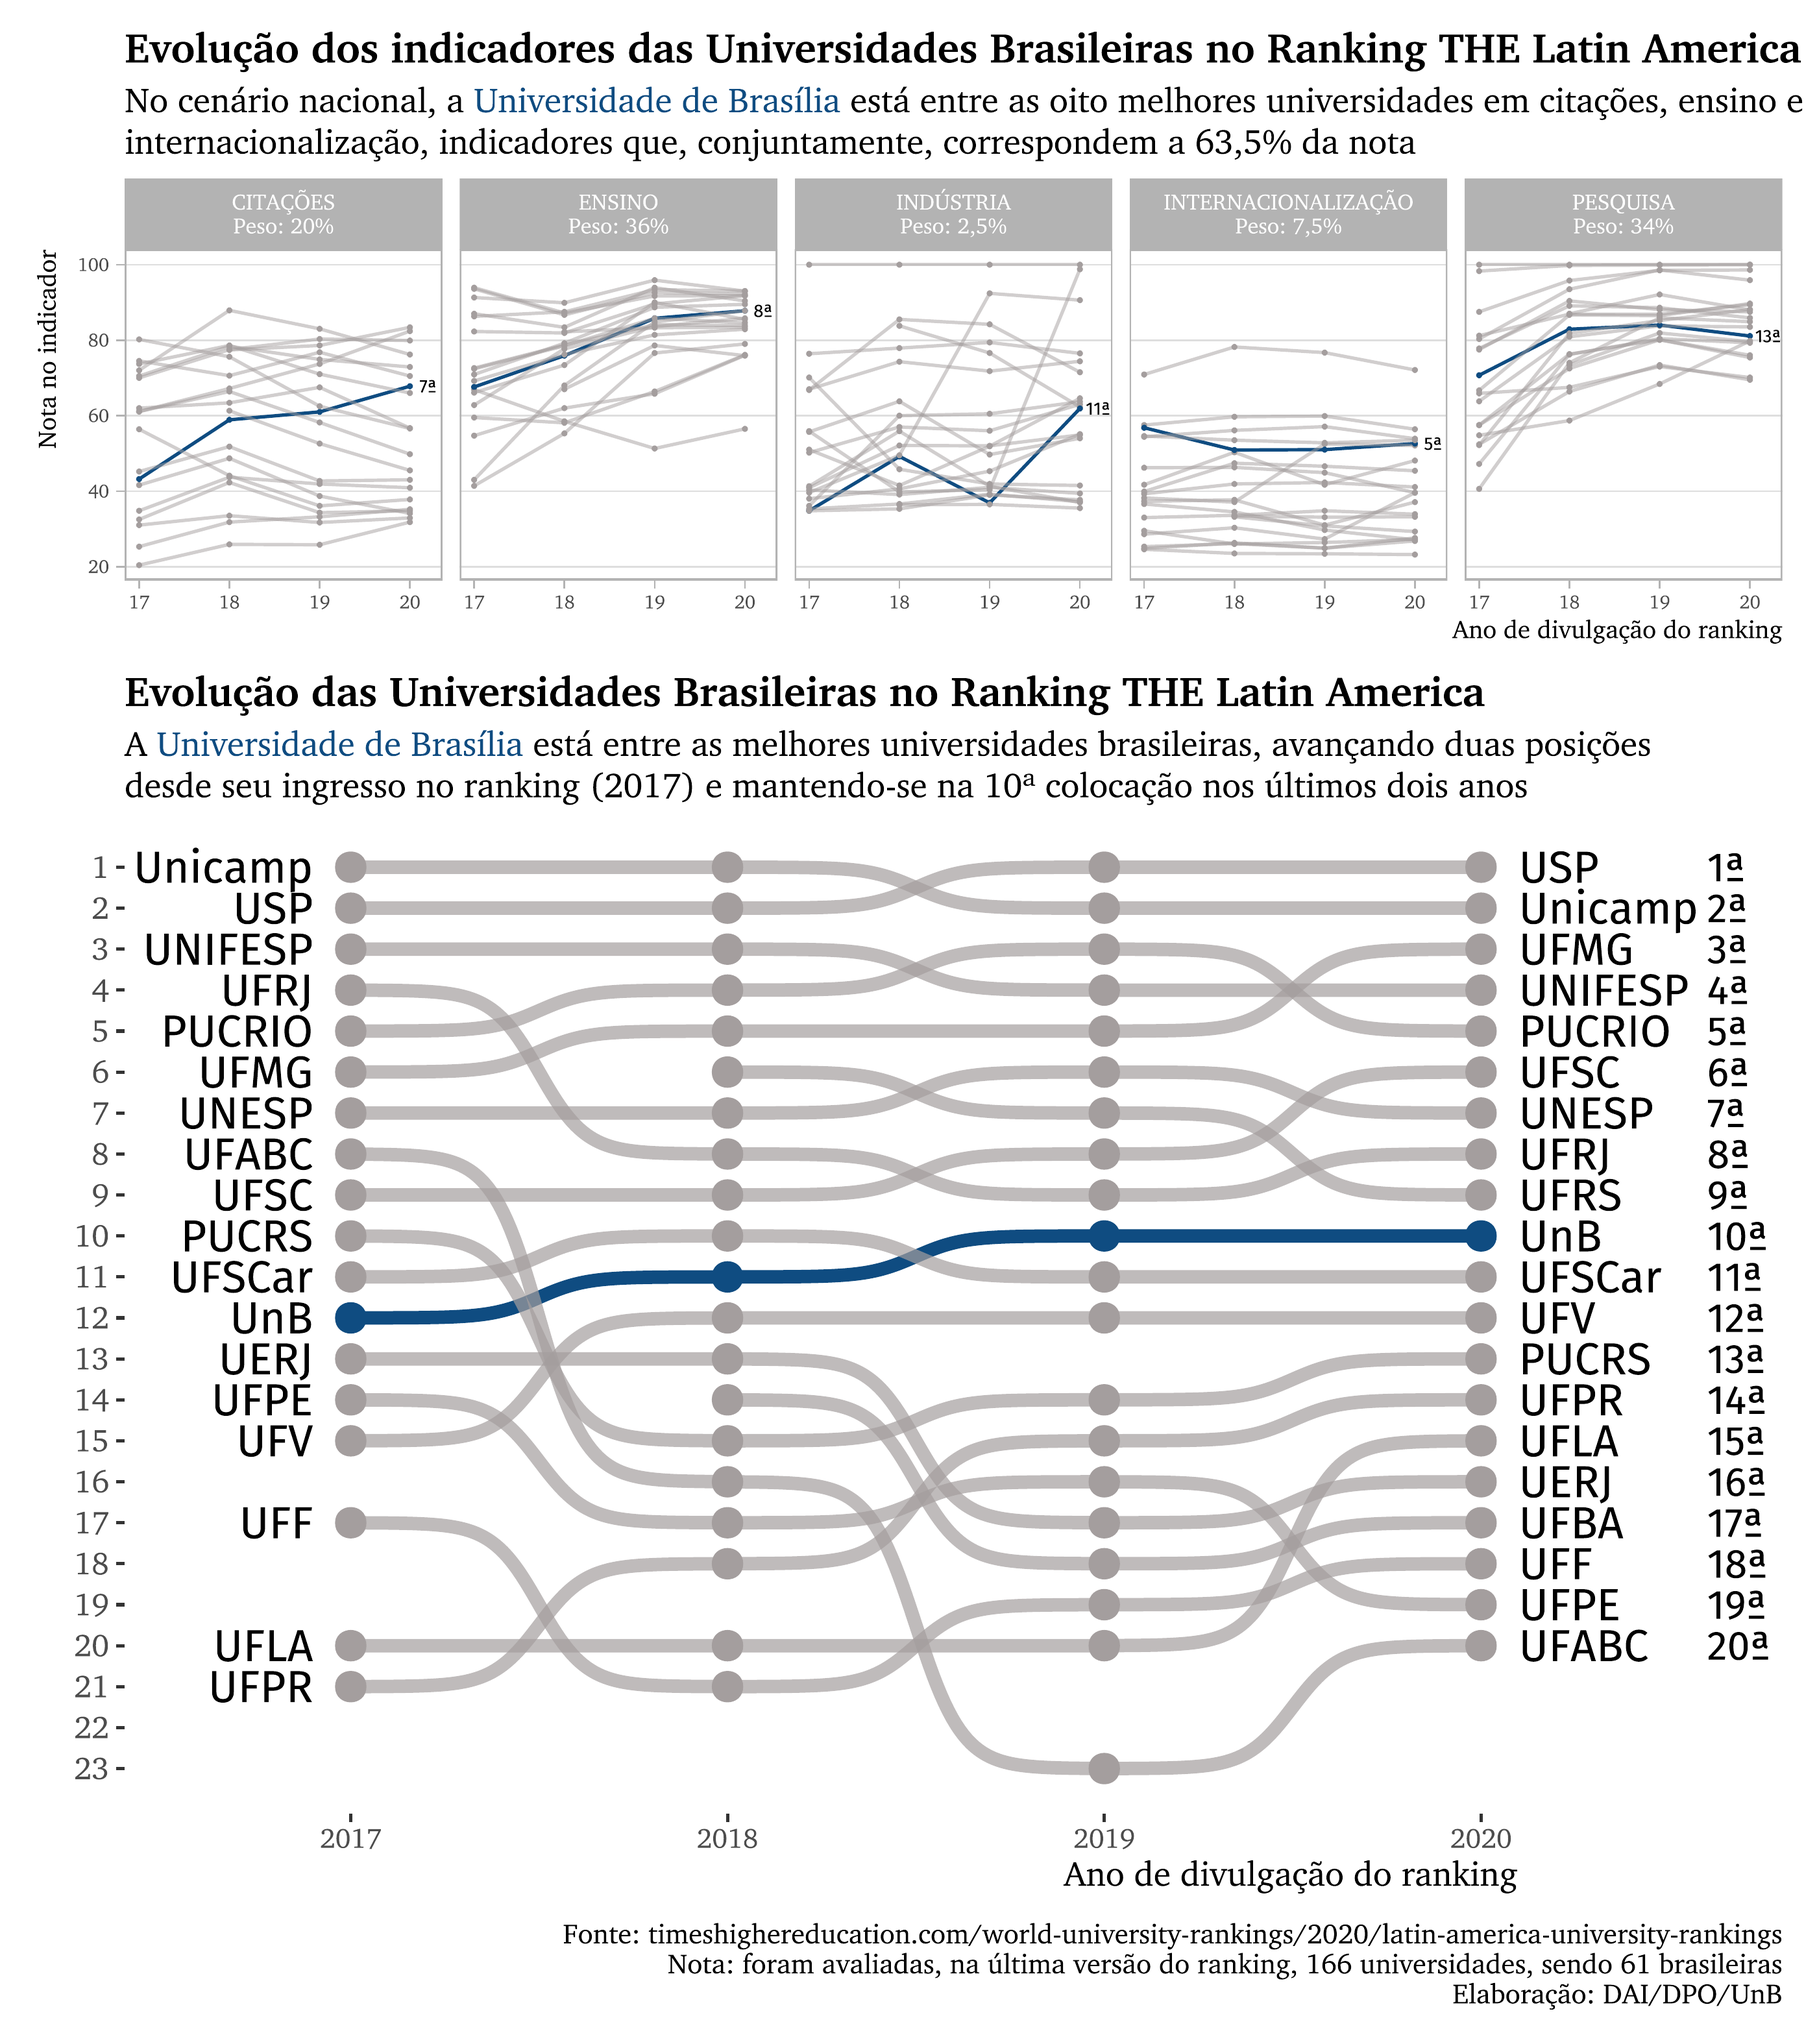
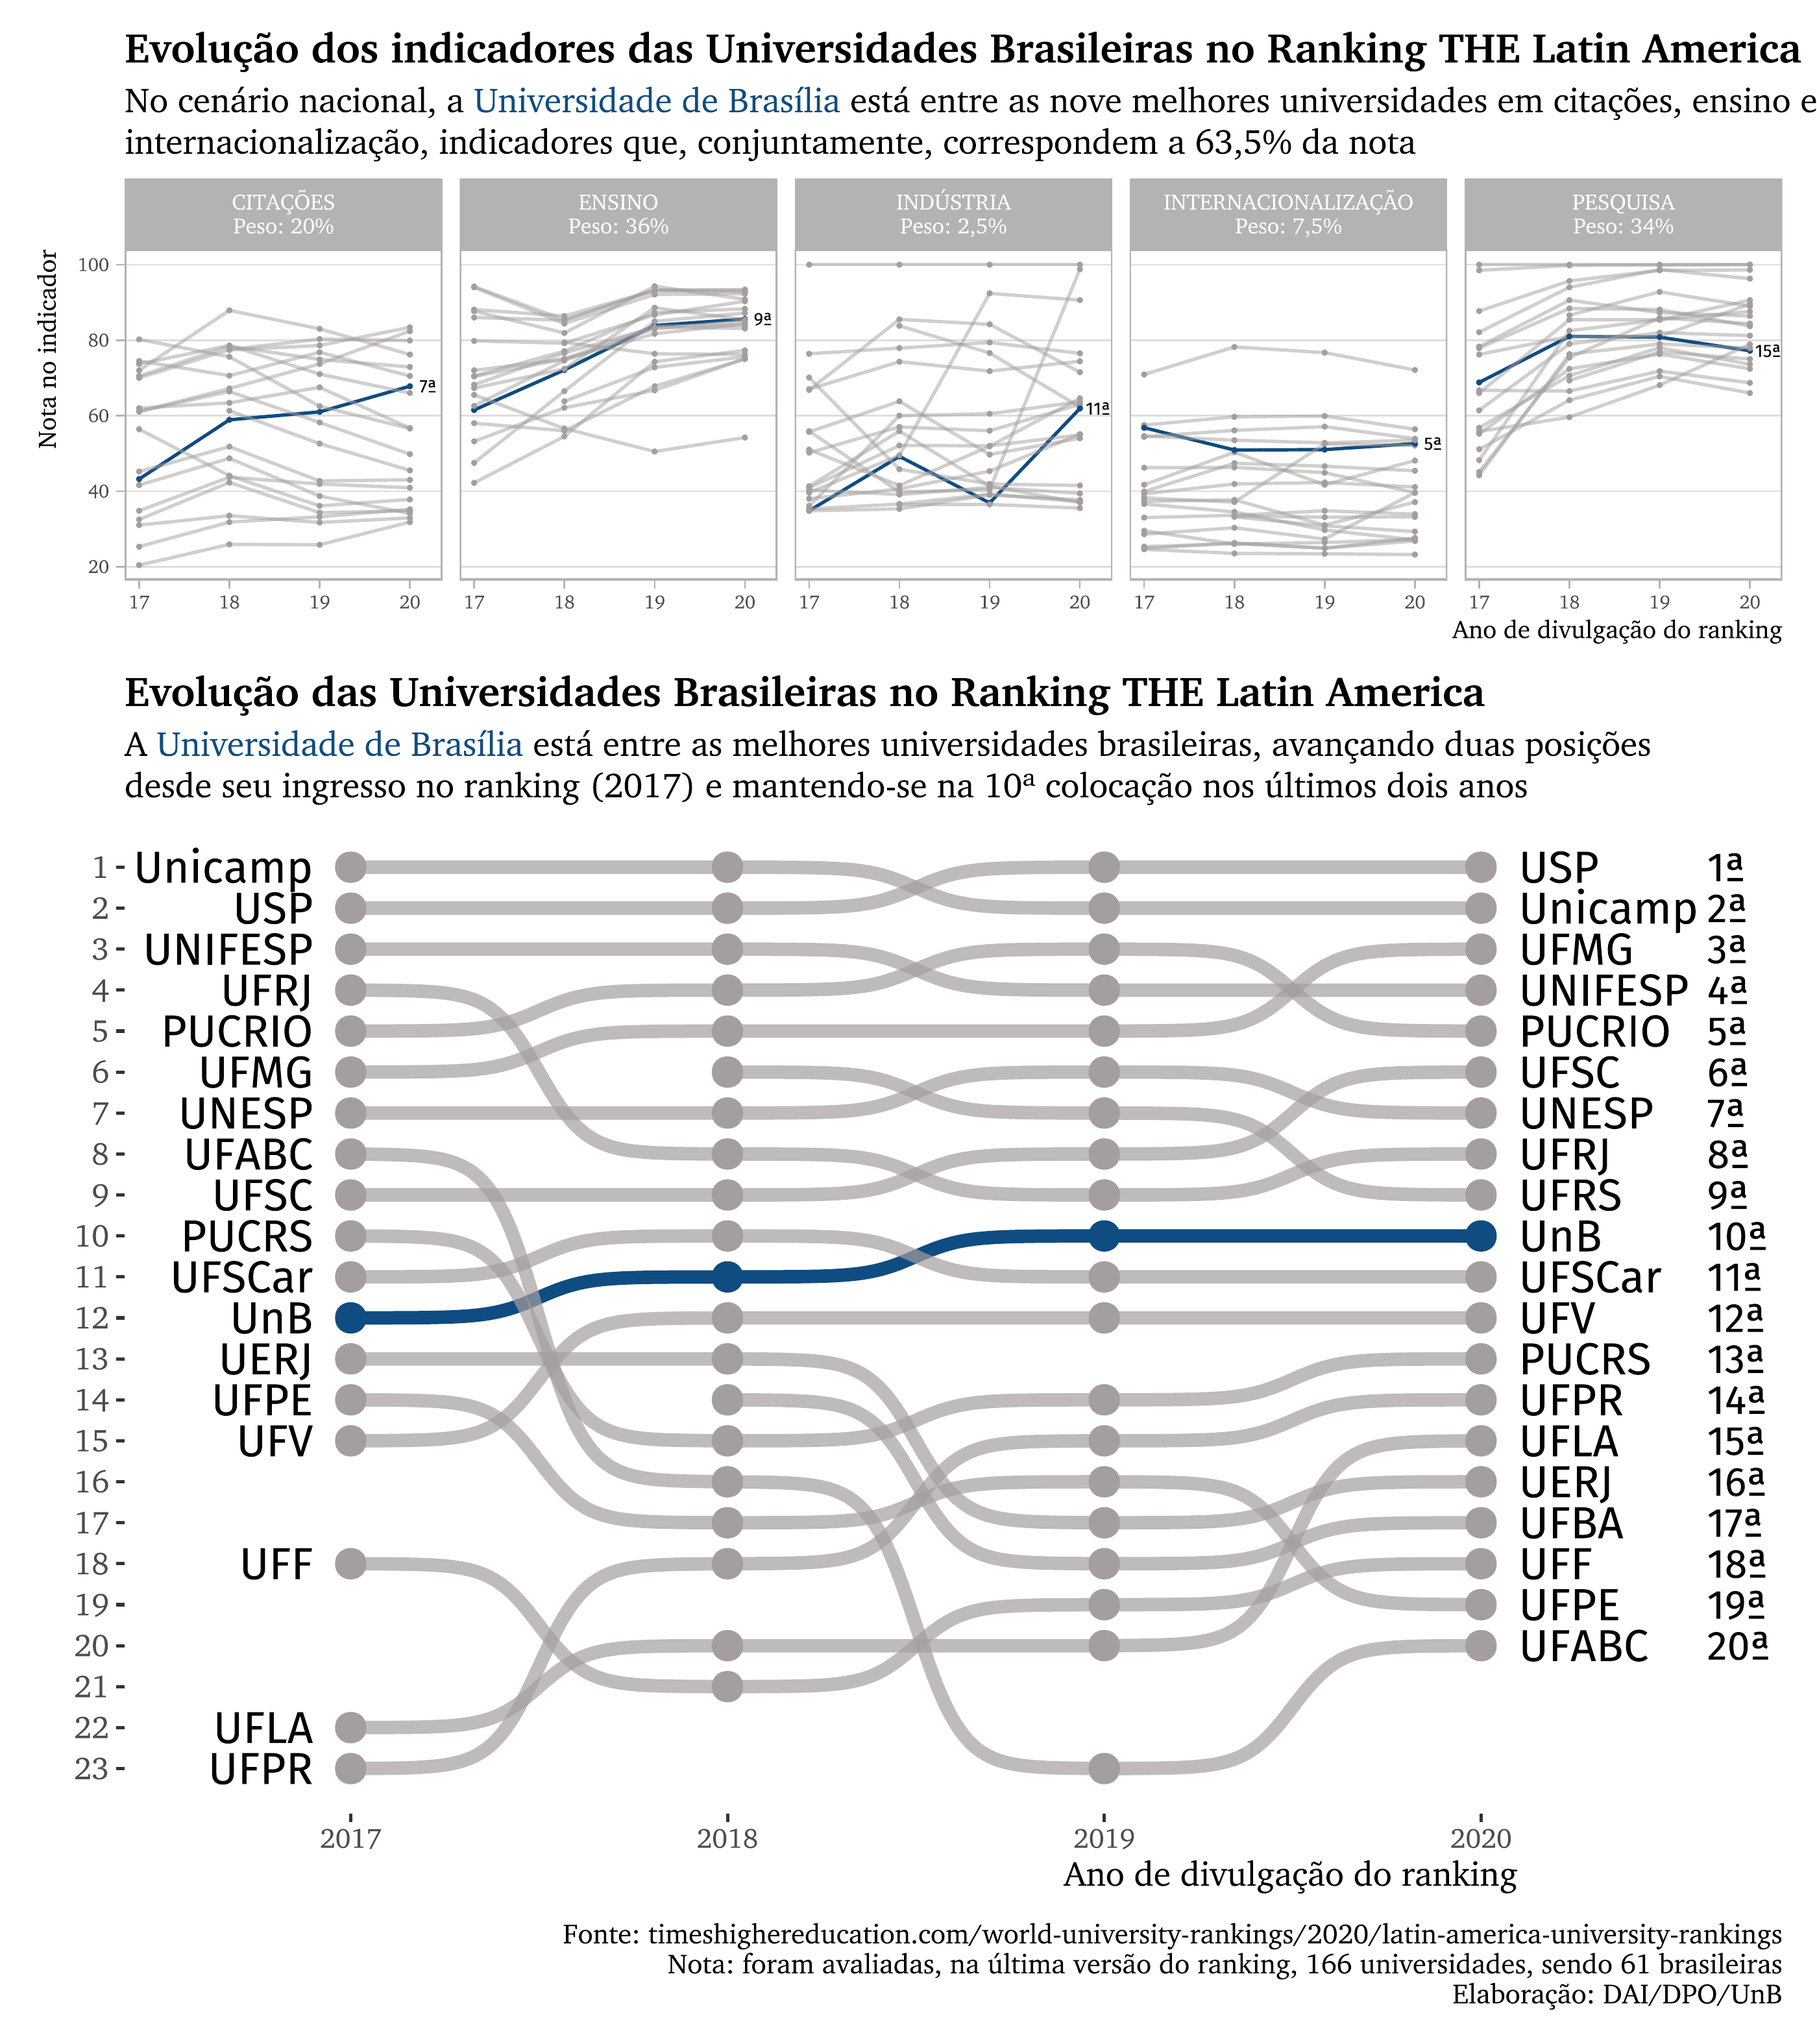
:exclamation: updated bc of THE's correction

diff --git a/README.md b/README.md
@@ -4,6 +4,8 @@
 
 In this project, I used the data available at https://www.timeshighereducation.com/world-university-rankings/2020/latin-america-university-ranking, considering the ranking versions that University of Brasília took part: 2017, 2018, 2019 and 2020. The data was extracted and saved to an Excel file manually, but all the processing was done in R (01_gera_dados.R).
 
+During the EDA (Exploratory Data Analysis) phase, I've encountered an error in the data: the calculated overall score was different from the displayed overall score. I reported this finding to the THE staff, and they confirmed that two indicators, research and teaching, were incorrectly displayed in the site, and were promplty corrected, without any changes to the other indicators or positions.
+
 The resulting plot is composed of two narratives that complement each other. The first part explores how all universities fared in each of the indicators that the ranking measures, displaying its respective weight - citations, teaching, industry income, international outlook and research. Because the focus is UnB, its position in every indicator is displayed at the end of the evolution.
 
 The second narrative of the plot shows the evolution of the universities' position, highlighting, once again, UnB, in blue.
